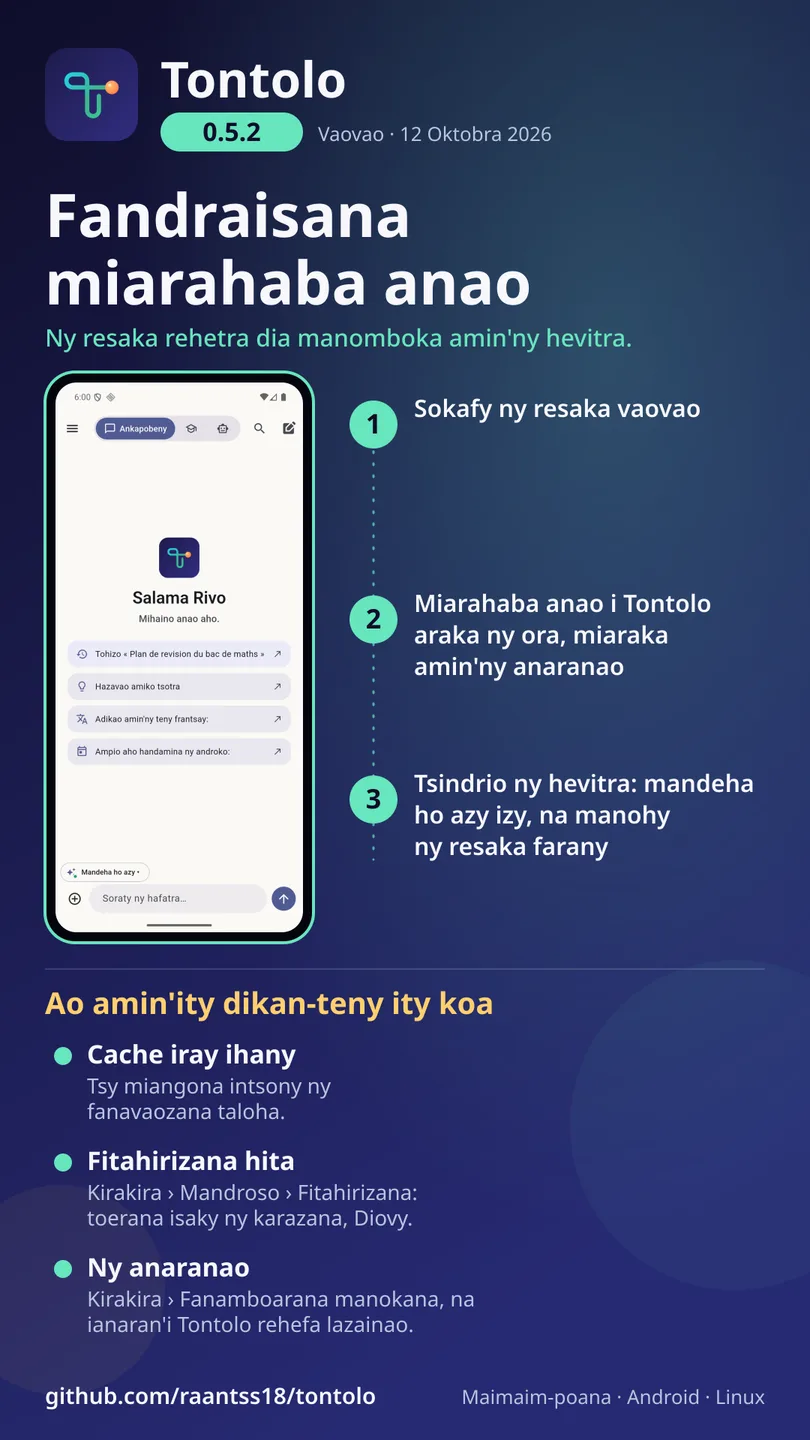
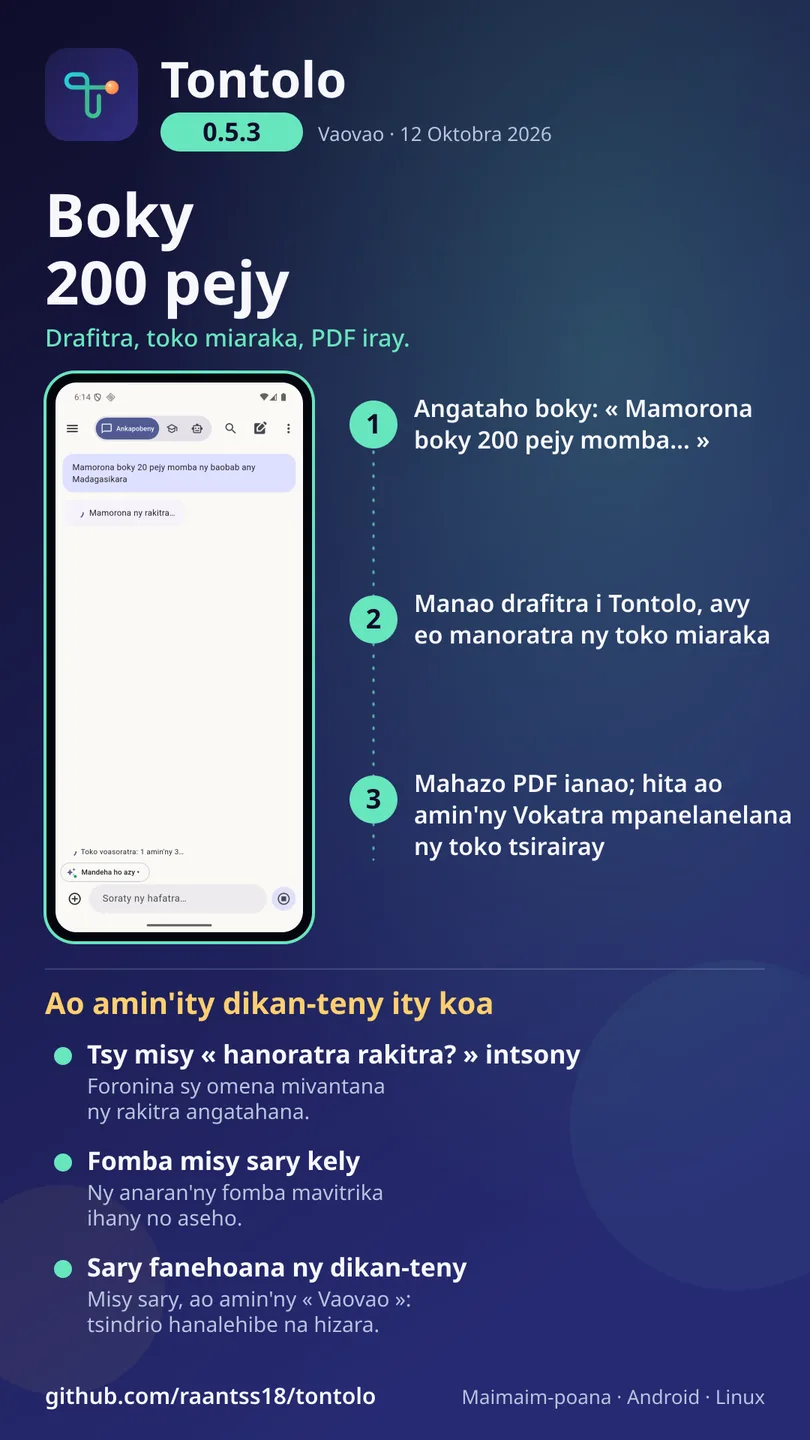
Poster 0.5.3 (livres de 200 pages) en français, anglais et malgache

diff --git a/TASKS.md b/TASKS.md
@@ -254,5 +254,5 @@ l'emploi ; bureau Linux = fichiers + commandes confirmées dans un dossier chois
 ## v0.5.3 (2026-10-12)
 - [x] Bug « Tontolo demande toujours d'écrire un fichier » (livre de 200 pages) : cause = outil d'écriture de l'espace interne (fichier jamais livré, rien dans les résultats) → retiré sans dossier de travail ; les livres passent par un rédacteur dédié (plan, chapitres en parallèle, PDF/zip), résultats visibles en direct, demandes sans verbe reconnues, chapitre muet réessayé puis marqué « à refaire »
 - [x] Poster 0.5.2 (fr, en, mg) ; système de poster par version (build_poster.py, exigé par la release, affiche embarquée dans « Nouveautés »)
-- [ ] Poster 0.5.3 + publication 0.5.3 ; ajouter les posters à la release 0.5.2 déjà publiée
+- [x] Poster 0.5.3 (captures réelles de l'émulateur en fr/en/mg) ; publication 0.5.3 en cours ; posters à ajouter à la release 0.5.2
 - [ ] A20 (pastilles d'activité) reste à faire après 0.5.3
